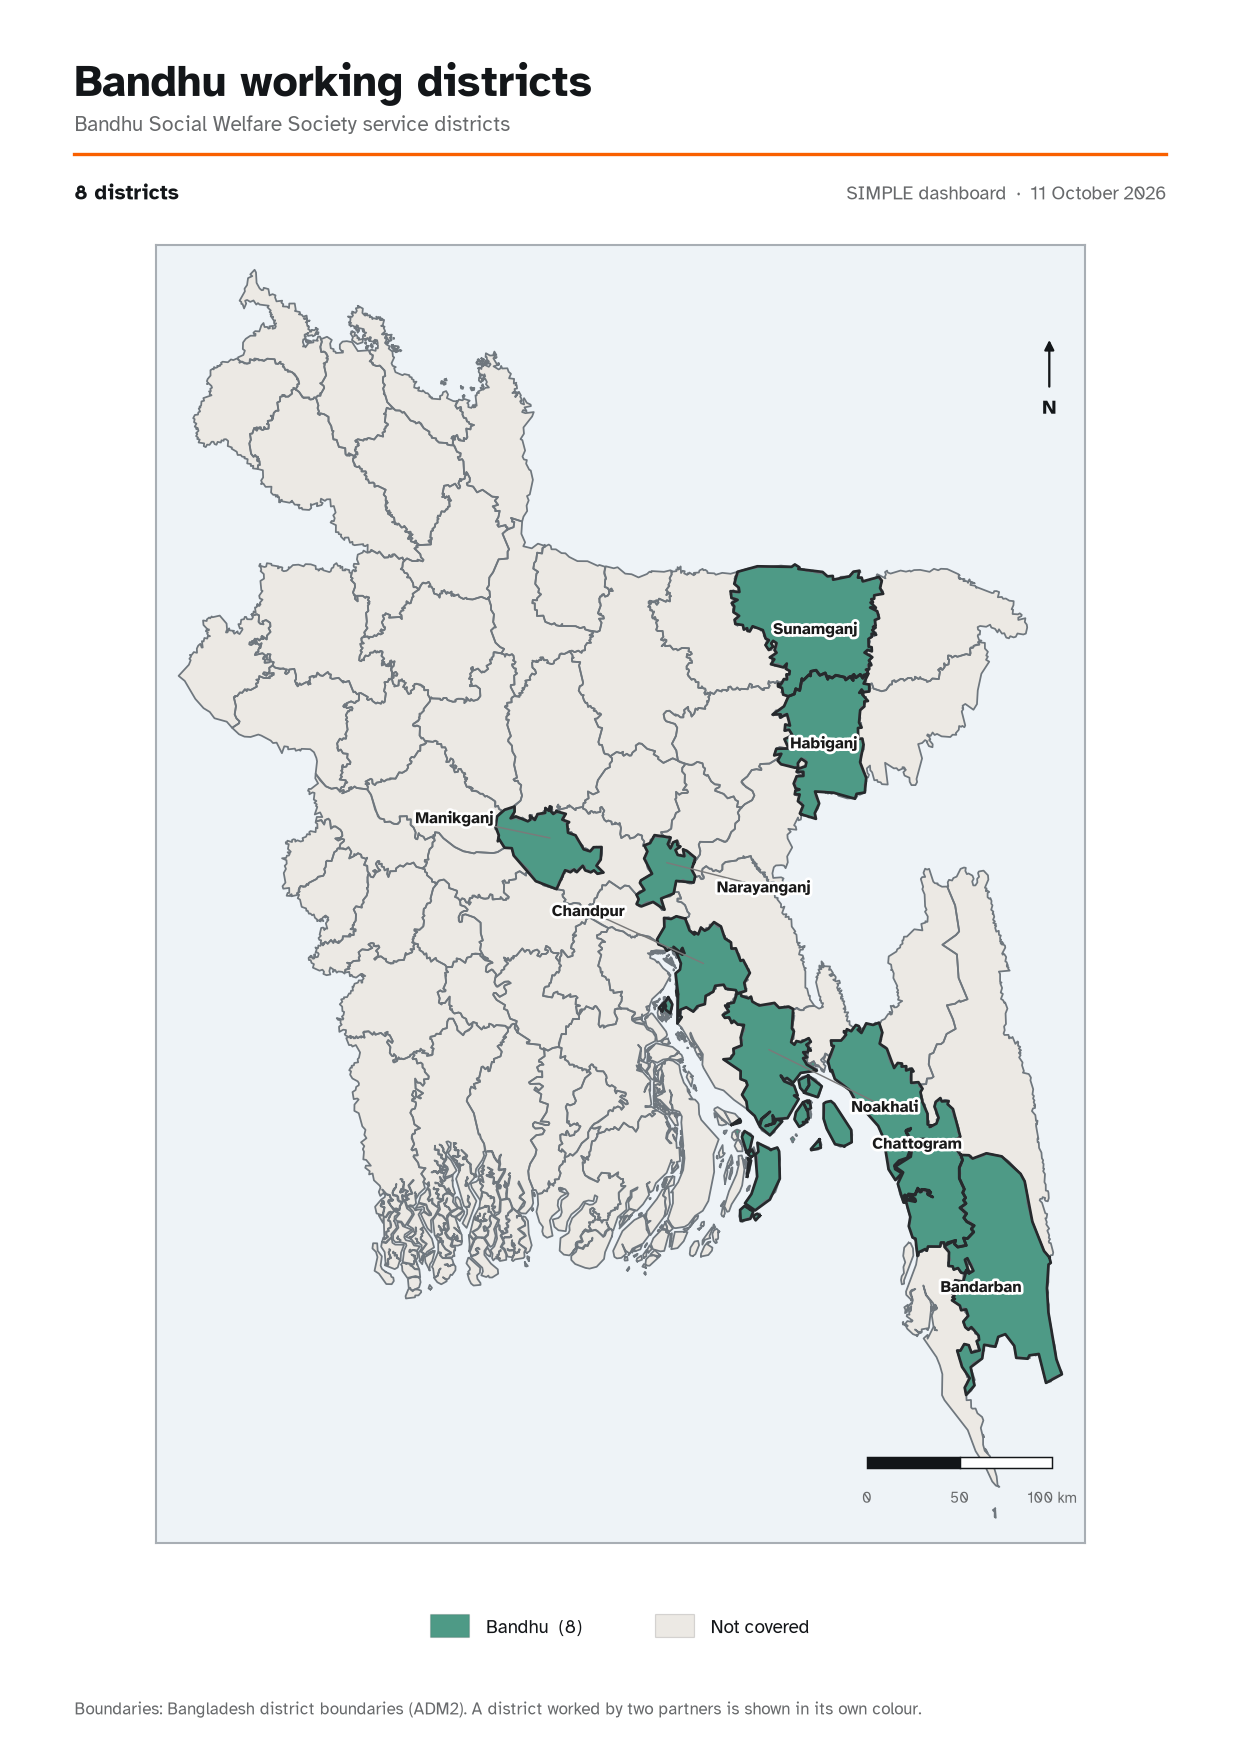
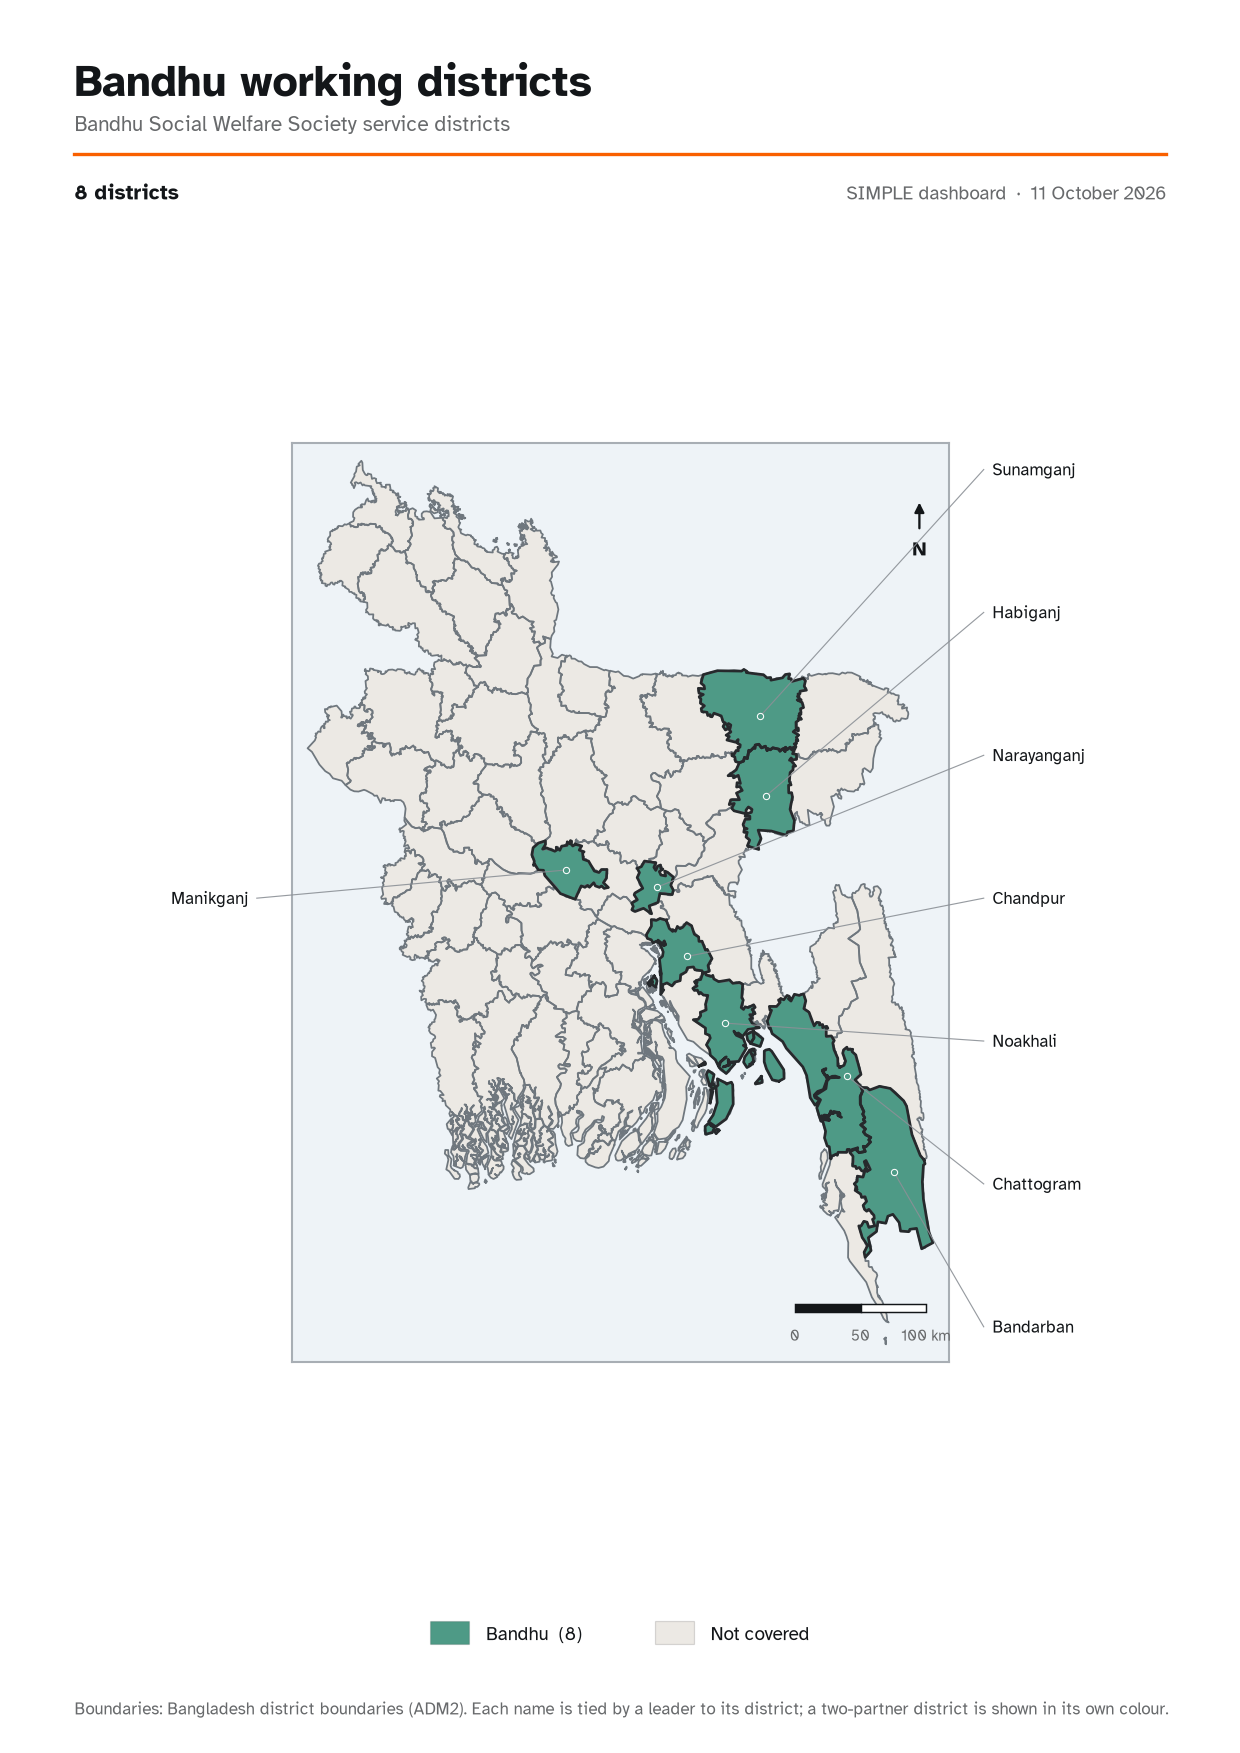
fix(maps): leader-line gutter labels so district names stop sliding off
The first cut stamped each name on its district at the centroid. On a crowded
map that slid names off concave or tiny districts and let them collide, which
is what Rafi saw.

Replaced with an automatic callout labeller: no name sits on the map. Every
supported district gets a coloured dot and a thin leader to its name in a side
gutter, west districts to the left column and east to the right, each column
sorted north to south so the leaders fan out without crossing. Overlap is now
impossible regardless of density, and the gutter list doubles as a per-district
key since each dot carries its partner colour. Verified on all three: SIMPLE
(28 names, two full columns), PHD (9) and Bandhu (8).

Regenerated PNGs; PDFs refreshed in the Desktop pack.

diff --git a/frontend/scripts/maps/make_partner_maps.py b/frontend/scripts/maps/make_partner_maps.py
@@ -1,17 +1,19 @@
 # -*- coding: utf-8 -*-
 """Partner-coverage print sheets for the SIMPLE dashboard.
 
-Same house style, boundary file and five-pass drawing as make_donor_maps.py
-(fills and strokes separate, supported districts outlined heavier, generalised
-stroke so the Sundarbans does not smear, scale bar, north arrow, legend laid
-out in inches). Three sheets:
+Same house style and boundary file as make_donor_maps.py. Three sheets:
 
   PHD      9 wellness-centre districts, one centre each
   Bandhu   8 working districts
   SIMPLE   all three partners on one map, overlaps in their own colour
 
-District lists are the canonical PARTNER_DISTRICTS from
-frontend/src/data/partnerDistricts.ts. Change them there, then rerun this.
+District names are NOT stamped on the districts. On a crowded map a centroid
+label slides off a concave or tiny district and collides with its neighbours.
+Instead every supported district is tied by a thin leader to a name in a side
+gutter: west districts to the left column, east to the right, each column
+sorted north to south so leaders do not cross. A coloured dot on the district
+repeats its class, so the gutter list reads as a legend of its own. This
+guarantees no overlap however dense the map gets.
 
 Writes a 150-dpi PNG into frontend/public/maps (served on the dashboard) and a
 300-dpi PDF + PNG into the Desktop deliverable folder, from one run.
@@ -23,10 +25,10 @@ import re
 
 import matplotlib
 matplotlib.use('Agg')
-import matplotlib.patheffects as pe
 import matplotlib.pyplot as plt
+from matplotlib.lines import Line2D
 from matplotlib.patches import Polygon as MplPolygon, Rectangle
-from shapely.geometry import LineString
+from shapely.geometry import LineString, Polygon
 
 GEOJSON = r'C:\Users\HP\Documents\spondon_clone\frontend\public\bangladesh-adm2.geojson'
 WEBDIR = r'C:\Users\HP\Documents\spondon_clone\frontend\public\maps'
@@ -43,11 +45,8 @@ INK, ASH, HAIR = '#131619', '#686a6c', '#a8aeb4'
 SEA, LAND = '#eef3f7', '#ece9e4'
 BORDER, BORDER_LW = '#6f777e', 0.85
 EDGE, EDGE_LW = '#26292c', 1.30
+LEADER = '#8b9096'
 
-# Partner palette. Single partners take the dashboard's own partner tints
-# (CIPRB pastel blue, Bandhu pastel green, PHD orange); a two-partner district
-# takes a deeper tone of its own so the legend can name it rather than leaving
-# the eye to guess a blend.
 TINT = {
     'CIPRB':          '#649BF2',
     'Bandhu':         '#4E9A86',
@@ -66,14 +65,10 @@ PHD = ['Rajbari', 'Jessore', 'Bagerhat', 'Patuakhali', 'Faridpur', 'Mymensingh',
 
 
 def partner_class(d):
-    inn = [p for p, lst in (('CIPRB', CIPRB), ('Bandhu', BANDHU), ('PHD', PHD)) if d in lst]
-    return ' + '.join(inn)
+    return ' + '.join(p for p, lst in (('CIPRB', CIPRB), ('Bandhu', BANDHU), ('PHD', PHD)) if d in lst)
 
 
-# All-partners membership, each district to its class.
-ALL = {}
-for d in set(CIPRB) | set(BANDHU) | set(PHD):
-    ALL[d] = partner_class(d)
+ALL = {d: partner_class(d) for d in set(CIPRB) | set(BANDHU) | set(PHD)}
 
 SHEETS = {
     'PHD': {
@@ -100,14 +95,6 @@ SHEETS = {
     },
 }
 
-# Leader offsets (deg) for names that cannot sit on their own small district.
-LEADERS = {
-    'Bhola': (-0.46, -0.46), 'Barguna': (-0.40, -0.22), 'Patuakhali': (-0.58, 0.02),
-    'Chandpur': (-0.62, 0.26), 'Sherpur': (0.02, 0.34), 'Jamalpur': (-0.58, -0.06),
-    'Noakhali': (0.62, -0.28), 'Narayanganj': (0.52, -0.12), 'Manikganj': (-0.52, 0.10),
-    'Dhaka': (0.40, -0.30), 'Faridpur': (-0.48, -0.20), 'Rajbari': (-0.52, 0.06),
-    'Tangail': (-0.40, 0.18),
-}
 ALIASES = {'khagrachari': 'khagrachhari', 'moulavibazar': 'maulvibazar',
            'chattogram': 'chittagong', 'cumilla': 'comilla', 'bogura': 'bogra',
            'jashore': 'jessore', 'barishal': 'barisal'}
@@ -136,8 +123,14 @@ def biggest_ring(feat):
     return best
 
 
-def centroid(ring):
-    return (sum(p[0] for p in ring) / len(ring), sum(p[1] for p in ring) / len(ring))
+def anchor_point(feat):
+    """A point guaranteed inside the district, for the leader dot."""
+    ring = biggest_ring(feat)
+    try:
+        p = Polygon(ring).representative_point()
+        return (p.x, p.y)
+    except Exception:
+        return (sum(q[0] for q in ring) / len(ring), sum(q[1] for q in ring) / len(ring))
 
 
 def thinned(ring, tol):
@@ -146,12 +139,15 @@ def thinned(ring, tol):
     return list(LineString(ring).simplify(tol).coords)
 
 
-def draw_map(ax, spec, geo, *, label_size=7.8):
+def draw_map(ax, spec, geo):
+    """Fills, boundaries, supported outlines, frame, north arrow, scale bar.
+
+    Returns the list of (name, (lon, lat), class) for the gutter labeller.
+    """
     classes = {key(d): c for d, c in spec['classes'].items()}
     pretty = {key(d): d for d in spec['classes']}
-    seen = set()
+    seen, anchors, shaded_rings = set(), [], []
     ax.set_facecolor(SEA)
-    labels, shaded_rings = [], []
 
     for feat in geo['features']:
         name = feat['properties'].get('shapeName', '')
@@ -167,7 +163,7 @@ def draw_map(ax, spec, geo, *, label_size=7.8):
             if shaded:
                 shaded_rings.append(ring)
         if shaded:
-            labels.append((centroid(biggest_ring(feat)), pretty[key(name)]))
+            anchors.append((pretty[key(name)], anchor_point(feat), cls))
 
     for ring in shaded_rings:
         bx = [p[0] for p in ring]; by = [p[1] for p in ring]
@@ -180,17 +176,6 @@ def draw_map(ax, spec, geo, *, label_size=7.8):
     if missing:
         raise SystemExit(f'{spec["title"]}: not on the map file: {missing}')
 
-    for (cx, cy), name in labels:
-        dx, dy = LEADERS.get(name, (0.0, 0.0))
-        tx, ty = cx + dx, cy + dy
-        if dx or dy:
-            ax.annotate('', xy=(cx, cy), xytext=(tx, ty), zorder=7,
-                        arrowprops=dict(arrowstyle='-', color='#7a7a7a', linewidth=0.7,
-                                        shrinkA=1, shrinkB=1))
-        ax.text(tx, ty, name, ha='center', va='center', fontsize=label_size,
-                color='#1a1a1a', zorder=8, fontweight='bold',
-                path_effects=[pe.withStroke(linewidth=2.6, foreground='white')])
-
     xs = [p[0] for f in geo['features'] for r in rings(f['geometry']) for p in r]
     ys = [p[1] for f in geo['features'] for r in rings(f['geometry']) for p in r]
     ax.set_xlim(min(xs) - 0.12, max(xs) + 0.12)
@@ -200,14 +185,14 @@ def draw_map(ax, spec, geo, *, label_size=7.8):
     for side in ax.spines.values():
         side.set_edgecolor(HAIR); side.set_linewidth(1.0)
 
-    ax.annotate('N', xy=(0.962, 0.93), xytext=(0.962, 0.875),
+    ax.annotate('N', xy=(0.955, 0.94), xytext=(0.955, 0.885),
                 xycoords='axes fraction', textcoords='axes fraction',
                 ha='center', va='center', fontsize=9.5, fontweight='bold', color=INK,
                 arrowprops=dict(arrowstyle='-|>', color=INK, linewidth=1.1))
 
     km_per_deg = 111.32 * math.cos(math.radians(23.7))
     bar = 100 / km_per_deg
-    x0, y0 = max(xs) - 0.05 - bar, min(ys) + 0.24
+    x0, y0 = max(xs) - 0.05 - bar, min(ys) + 0.22
     for i in range(2):
         ax.add_patch(Rectangle((x0 + i * bar / 2, y0), bar / 2, 0.055,
                                facecolor=INK if i == 0 else 'white',
@@ -215,14 +200,55 @@ def draw_map(ax, spec, geo, *, label_size=7.8):
     for frac, lab in ((0, '0'), (0.5, '50'), (1, '100 km')):
         ax.text(x0 + bar * frac, y0 - 0.1, lab, ha='center', va='top',
                 fontsize=7, color=ASH, zorder=9)
+    return anchors
+
+
+def gutter_labels(fig, ax, anchors, *, size=8.4):
+    """Tie every district to a name in a side gutter by a leader line.
+
+    West districts go left, east go right, each column sorted north to south
+    so the leaders fan out without crossing. The name never sits on the map,
+    so nothing can slide off or collide.
+    """
+    inv = fig.transFigure.inverted()
+
+    def to_fig(xy):
+        return inv.transform(ax.transData.transform(xy))
+
+    box = ax.get_position()
+    xmid = box.x0 + box.width / 2
+    ytop, ybot = box.y0 + box.height - 0.015, box.y0 + 0.02
+
+    pts = [(name, to_fig(xy), cls) for name, xy, cls in anchors]
+    left = sorted([p for p in pts if p[1][0] < xmid], key=lambda p: -p[1][1])
+    right = sorted([p for p in pts if p[1][0] >= xmid], key=lambda p: -p[1][1])
+
+    def column(items, text_x, lead_x, align):
+        n = len(items)
+        if not n:
+            return
+        ys = ([(ytop + ybot) / 2] if n == 1
+              else [ytop - (ytop - ybot) * i / (n - 1) for i in range(n)])
+        for (name, (fx, fy), cls), gy in zip(items, ys):
+            fig.add_artist(Line2D([fx, lead_x], [fy, gy], color=LEADER, linewidth=0.55,
+                                  zorder=5, transform=fig.transFigure, alpha=0.9))
+            fig.add_artist(Line2D([fx], [fy], marker='o', markersize=3.0,
+                                  markerfacecolor=TINT.get(cls, '#555'),
+                                  markeredgecolor='white', markeredgewidth=0.5,
+                                  zorder=6, transform=fig.transFigure))
+            fig.text(text_x, gy, name, fontsize=size, color=INK, va='center', ha=align,
+                     zorder=7)
+
+    column(left, text_x=box.x0 - 0.035, lead_x=box.x0 - 0.028, align='right')
+    column(right, text_x=box.x0 + box.width + 0.035, lead_x=box.x0 + box.width + 0.028, align='left')
 
 
 def draw_legend(fig, rows, *, y, x0=0.06, x1=0.955, size=9.2):
     width_in = fig.get_size_inches()[0]
     sw, pad, gap = 0.26, 0.11, 0.34
     char = 0.56 * size / 72
-    texts = [f'{lab}  ({n})' for lab, n in rows] + ['Not covered']
     rows2 = list(rows) + [('Not covered', None)]
+    texts = [f'{lab}  ({n})' if n is not None else lab for lab, n in rows2]
     widths = [sw + pad + char * len(t) for t in texts]
     avail = (x1 - x0) * width_in
     span = sum(widths) + gap * (len(rows2) - 1)
@@ -243,9 +269,11 @@ def draw_legend(fig, rows, *, y, x0=0.06, x1=0.955, size=9.2):
 def page(spec, geo):
     fig = plt.figure(figsize=(8.27, 11.69))     # A4 portrait
     fig.patch.set_facecolor('white')
-    ax = fig.add_axes([0.06, 0.12, 0.88, 0.74])
-    draw_map(ax, spec, geo)
-    draw_legend(fig, spec['legend'], y=0.072)
+    # Narrower map, centred, leaving a gutter each side for the name columns.
+    ax = fig.add_axes([0.235, 0.11, 0.53, 0.75])
+    anchors = draw_map(ax, spec, geo)
+    gutter_labels(fig, ax, anchors)
+    draw_legend(fig, spec['legend'], y=0.068)
 
     fig.text(0.06, 0.945, spec['title'], fontsize=21, fontweight='bold', color=INK)
     fig.text(0.06, 0.925, spec['subtitle'], fontsize=10.2, color=ASH)
@@ -255,7 +283,7 @@ def page(spec, geo):
     fig.text(0.06, 0.886, f'{n} districts', fontsize=10, color=INK, fontweight='bold')
     fig.text(0.94, 0.886, f'SIMPLE dashboard  ·  {DATED}', fontsize=9, color=ASH, ha='right')
     fig.text(0.06, 0.022, 'Boundaries: Bangladesh district boundaries (ADM2). '
-             'A district worked by two partners is shown in its own colour.',
+             'Each name is tied by a leader to its district; a two-partner district is shown in its own colour.',
              fontsize=8, color=ASH)
 
     out = []
